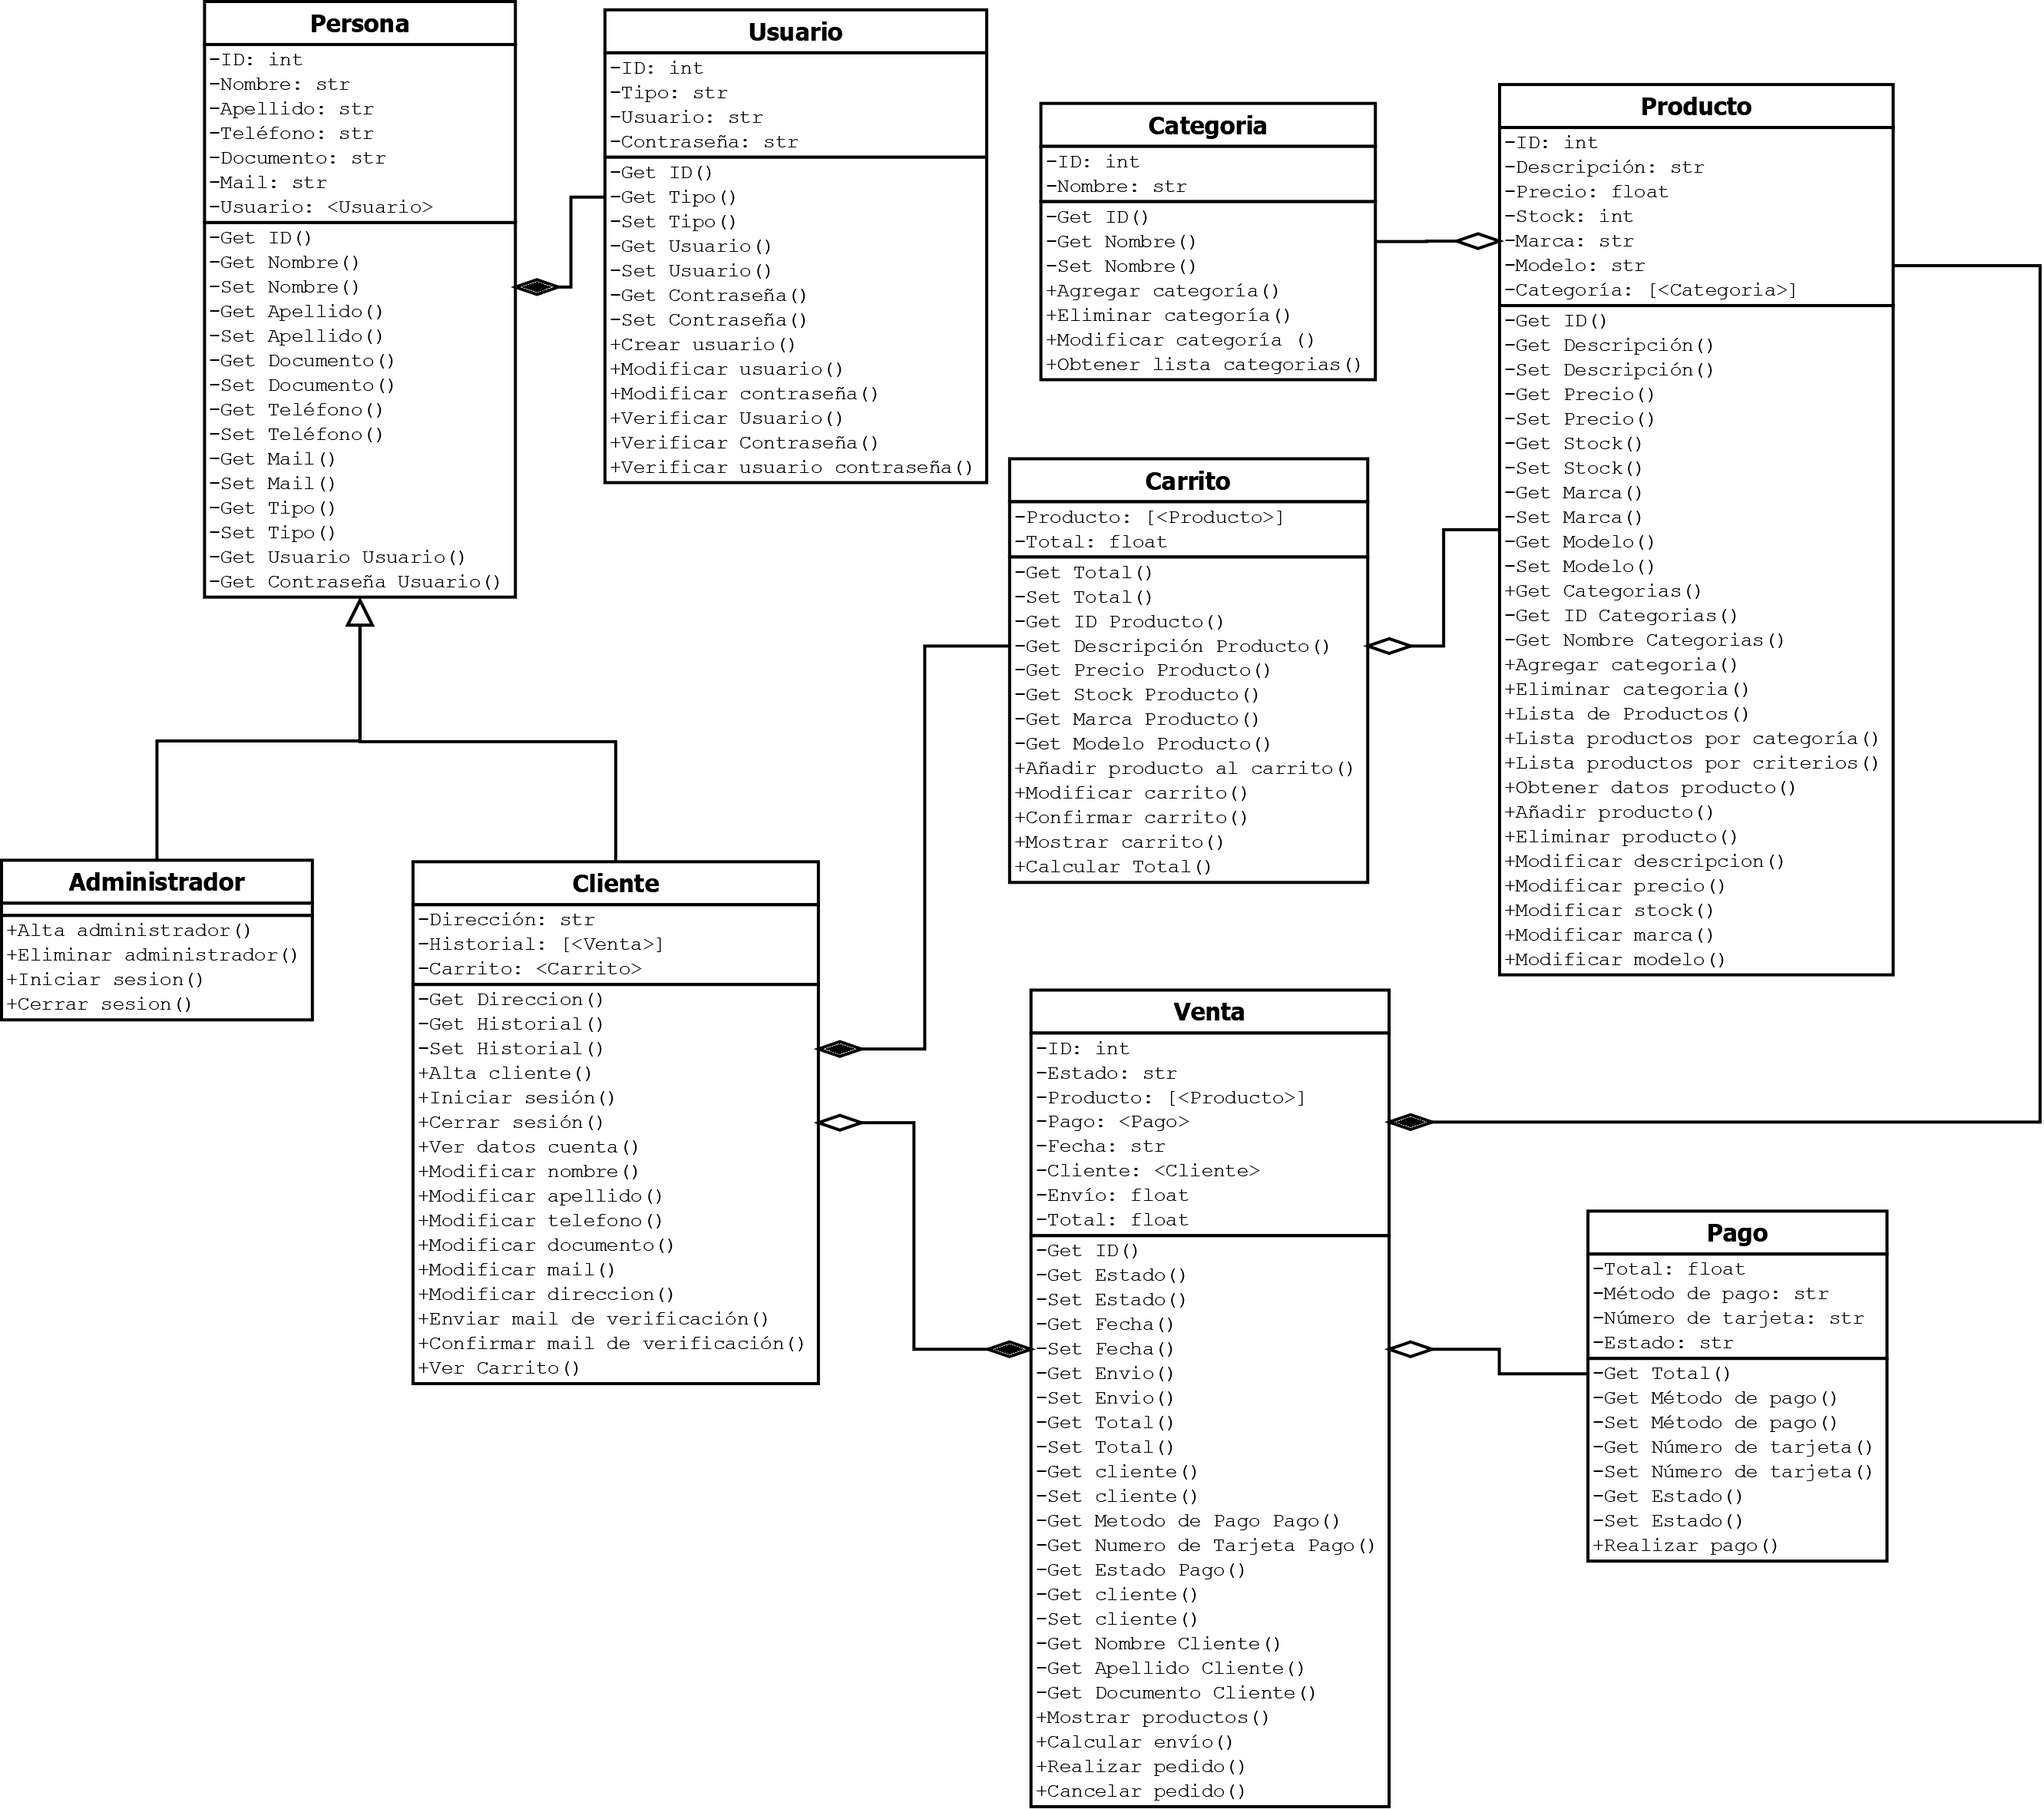
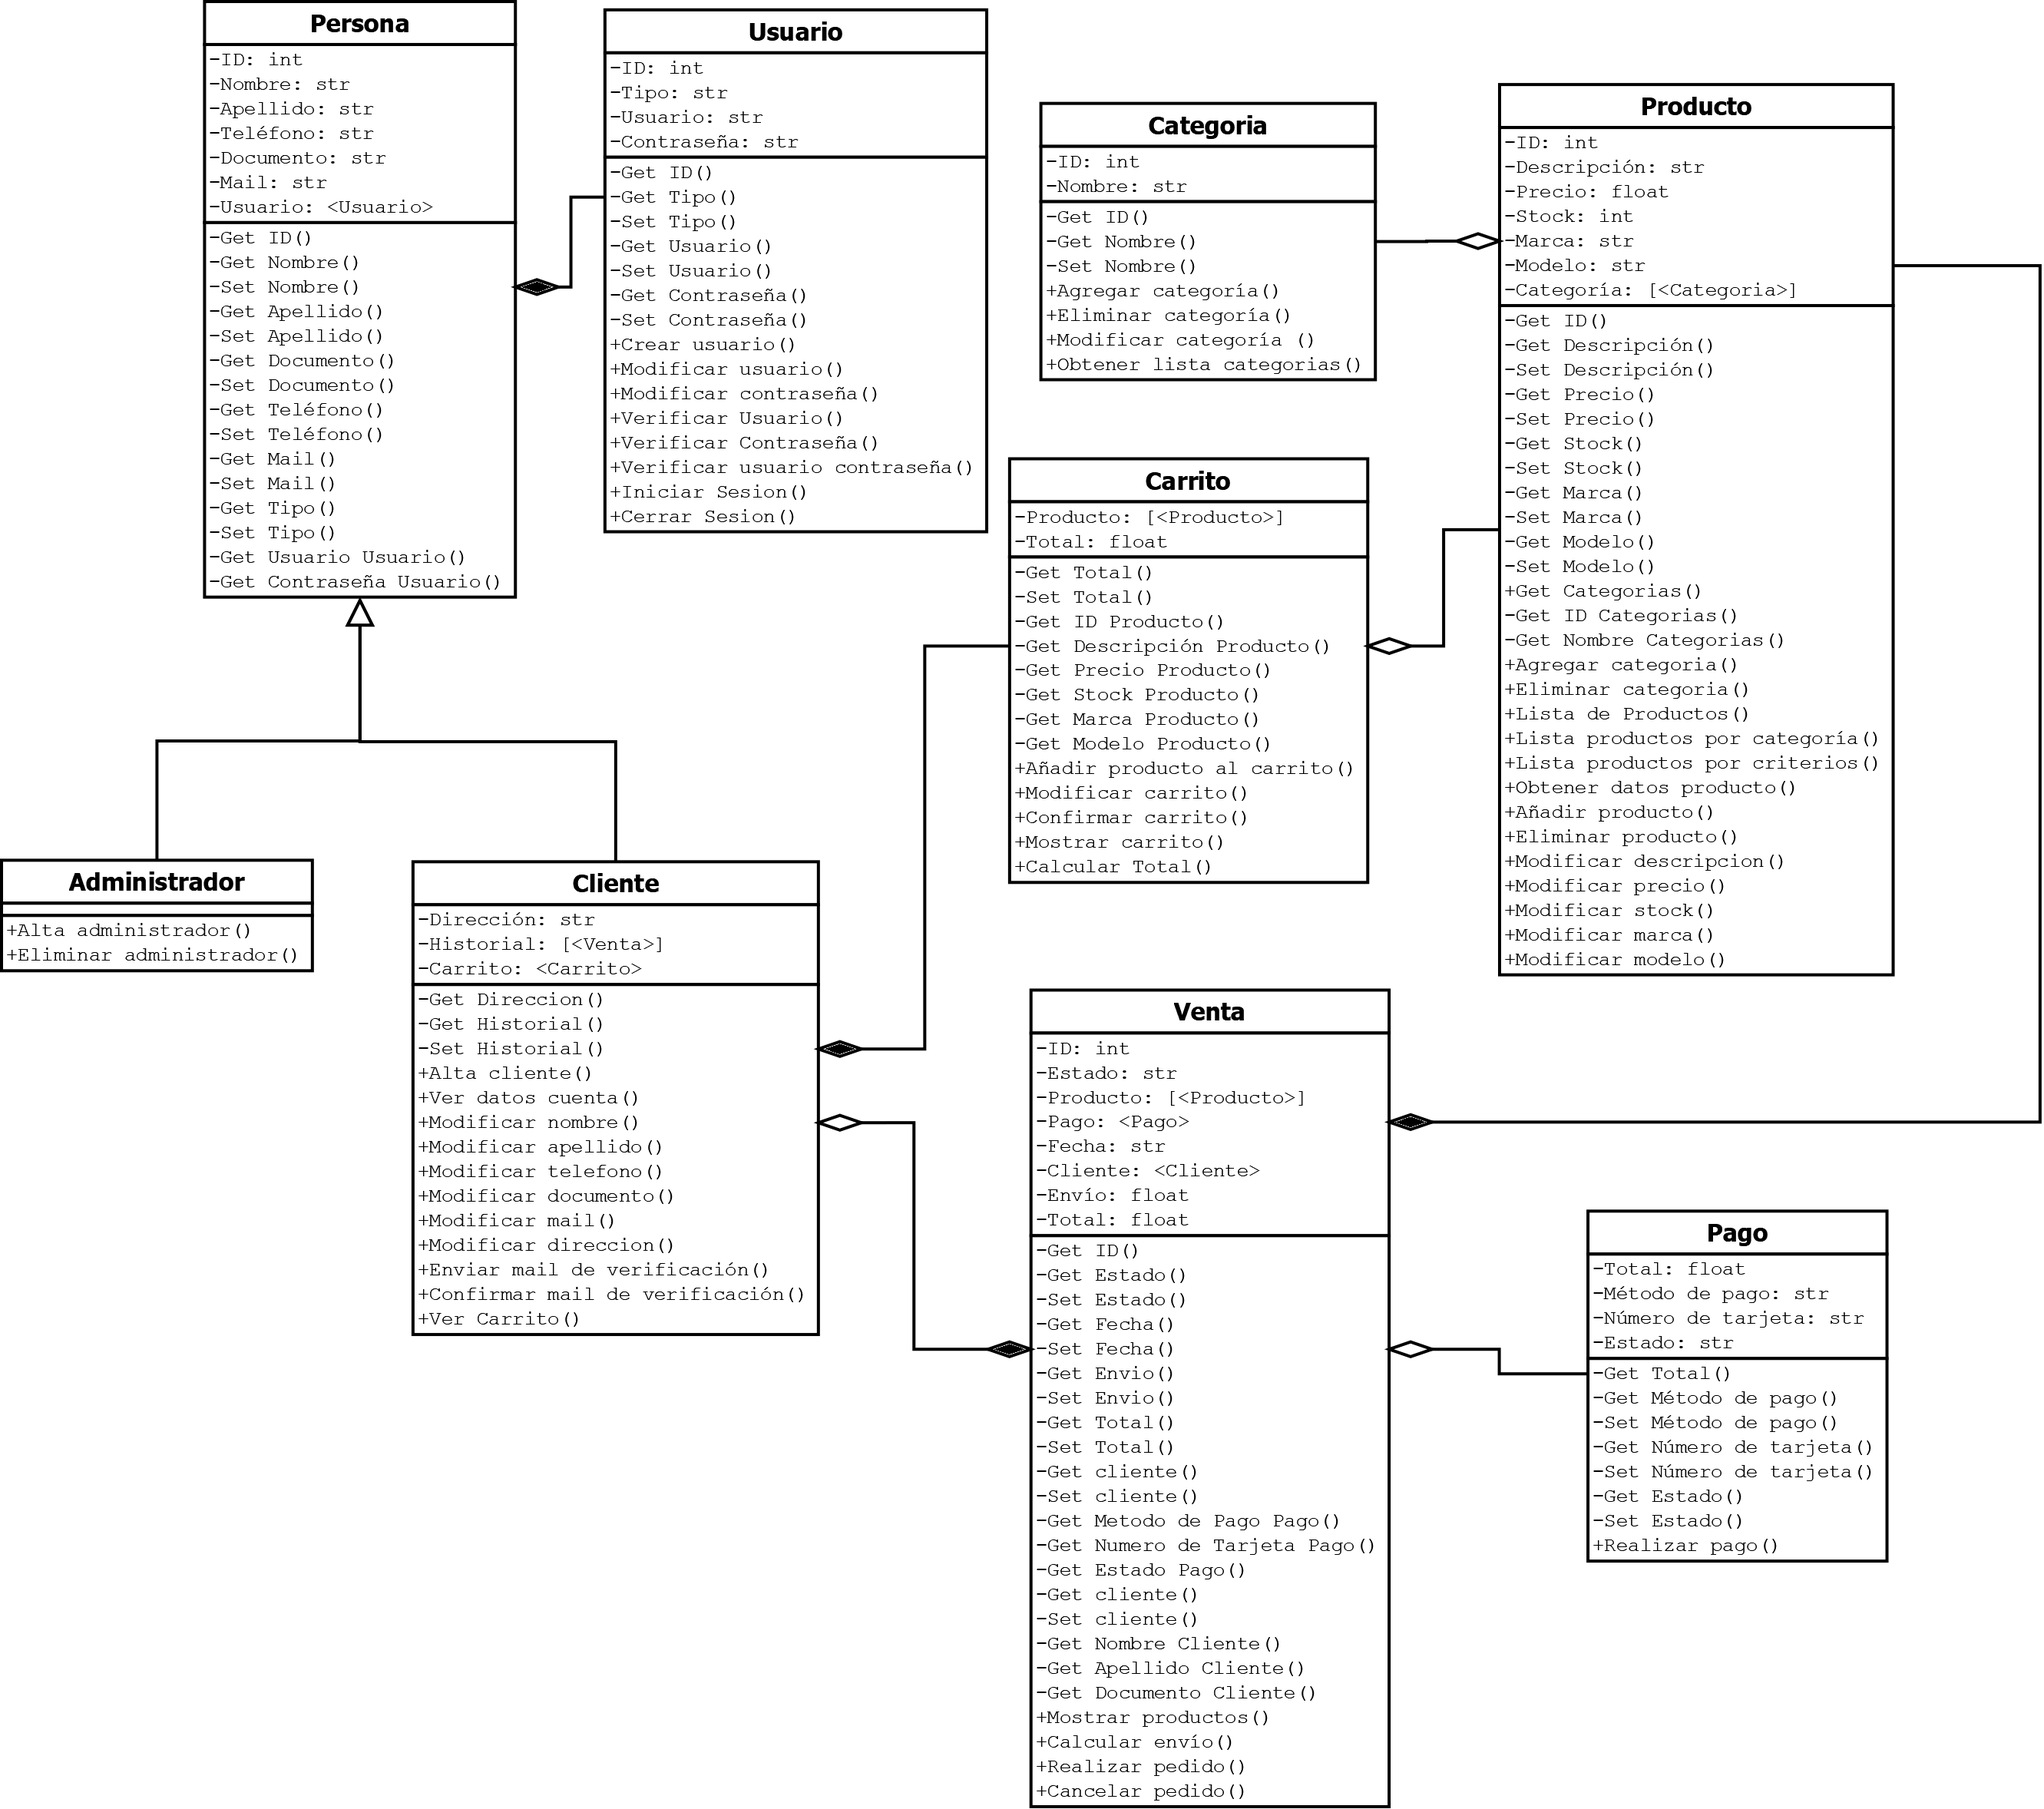
se agrego el metodod e iniciar sesin y se corrigio el diagrama de clases y la lista de metodos

Changed region(s): [[0.2183, 0.6197, 0.4053, 0.7746], [0.3118, 0.2479, 0.4053, 0.3098], [0.0, 0.5267, 0.0935, 0.5577]]

diff --git a/Back/main.py b/Back/main.py
@@ -20,26 +20,6 @@ def ceratetables():
 
 ceratetables()
 
-def iniciarsesion(usuario,contrasenia):
-    while True:
-        if usuario == '' and contrasenia == '':
-                return None
-        if Usuario.verificar_usuario_contraseña(usuario,contrasenia):
-            user = Usuario.get(Usuario.usuario == usuario, Usuario.contrasenia == contrasenia)
-            if user.tipo == 'cliente':
-                pers = Cliente.get(Cliente.usuario == user)
-            else:
-                pers = Administrador.get(Administrador.usuario == user)
-            return pers
-        else:
-            os.system('cls')
-            print('Usuario o Contraseña incorretos')
-            usuario=input('Usuario:  ')
-            contrasenia=input('Contraseña:  ')
-            if usuario == '' and contrasenia == '':
-                return None
-
-
 while True:
     os.system('cls')
     
@@ -52,7 +32,7 @@ while True:
 
     if entrada == '1':
         os.system('cls')
-        pers = iniciarsesion(input('Usuario:  '),input('Contraseña:  '))
+        pers = Usuario.iniciarsesion(input('Usuario:  '),input('Contraseña:  '))
 
         if pers!=None and pers.usuario.tipo == 'cliente':
             while True:
@@ -63,7 +43,7 @@ while True:
                 '3. Carrito\n'
                 '4. Productos\n'
                 '5. Compra\n'
-                'ENTER. Salir'
+                'ENTER. Cerrar Sesion'
                 )
                 entrada2=input()
 
@@ -79,7 +59,7 @@ while True:
                             '6. Modificar Direccion\n'
                             '7. Modificar Usuario\n'
                             '8. Modificar Contraseña\n'
-                            'ENTER. Salir'
+                            'ENTER. Salir\n'
                         )
 
                         modificar = input()
@@ -149,6 +129,7 @@ while True:
                             f'TOTAL: {total}\n'
                             '1. Ver y Modificar el Carrito\n'
                             '2. Confirmar el Carrito\n'
+                            'ENTER. Salir\n'
                         )
                         if selectcarrito=='1':
                             while True:
@@ -162,7 +143,13 @@ while True:
                                 else:
                                     pers.carrito.get().modificar_carrito(pers.carrito.get().mostrar_carrito()[int(elemento)].producto,int(input('Indique la nueva cantidad\n')))
                         if selectcarrito=='2':
-                            carritoventa=pers.carrito.get().confirmar_carrito(datetime.now().strftime("%Y-%m-%d %H:%M:%S"),6700.0)
+                            if len(pers.carrito.get().mostrar_carrito())>0:
+                                carritoventa=pers.carrito.get().confirmar_carrito(datetime.now().strftime("%Y-%m-%d %H:%M:%S"),6700.0)
+                                os.system('cls')
+                                input('Carrito confirmado')
+                            else:
+                                os.system('cls')
+                                input('No hay productos en el carrito')
                         if selectcarrito=='':
                             break
 
@@ -268,7 +255,7 @@ while True:
                 adminentrada=input(
                     '1. Productos\n'
                     '2. Categorias\n'
-                    'ENTER. Salir\n'
+                    'ENTER. Cerrar Sesion\n'
                 )
 
                 if adminentrada == '1':

diff --git a/Back/Usuario.py b/Back/Usuario.py
@@ -76,3 +76,27 @@ class Usuario(BaseModel):
             return True
         else:
             return False
+        
+    # inicia la sesion de un usuario
+    @staticmethod
+    def iniciarsesion(usuario,contrasenia):
+        import os
+        from Cliente import Cliente
+        from Administrador import Administrador
+        while True:
+            if usuario == '' and contrasenia == '':
+                    return None
+            if Usuario.verificar_usuario_contraseña(usuario,contrasenia):
+                user = Usuario.get(Usuario.usuario == usuario, Usuario.contrasenia == contrasenia)
+                if user.tipo == 'cliente':
+                    pers = Cliente.get(Cliente.usuario == user)
+                else:
+                    pers = Administrador.get(Administrador.usuario == user)
+                return pers
+            else:
+                os.system('cls')
+                print('Usuario o Contraseña incorretos')
+                usuario=input('Usuario:  ')
+                contrasenia=input('Contraseña:  ')
+                if usuario == '' and contrasenia == '':
+                    return None
